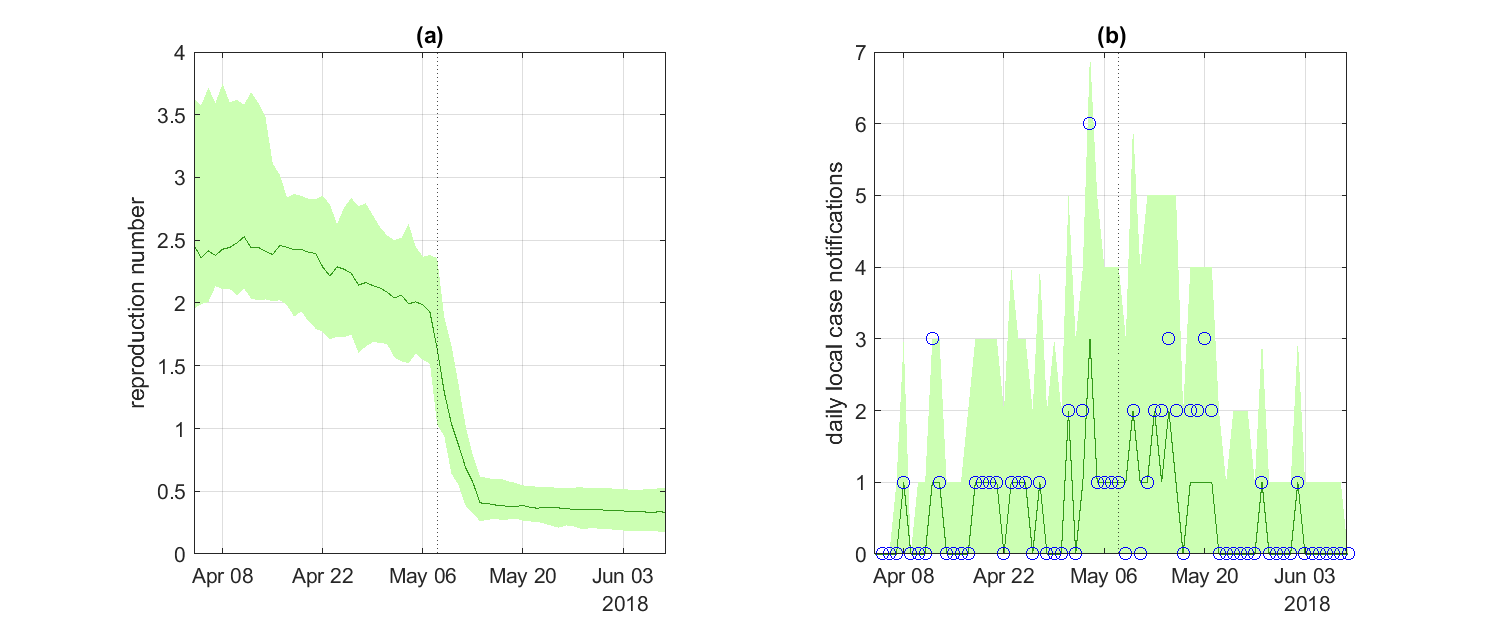
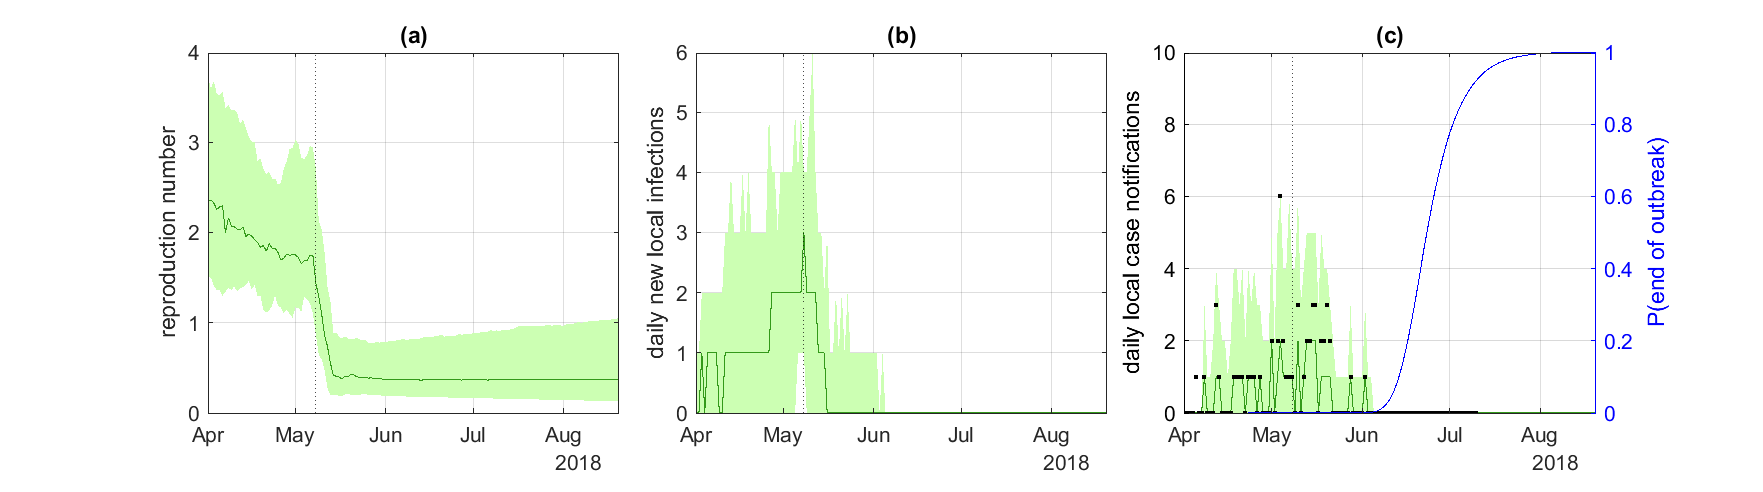
New figures

diff --git a/results/table.tex b/results/table.tex
@@ -2,14 +2,14 @@
 \hline
 \multicolumn{3}{l}{ \bf Covid-19} \\ 
  &  $t_n=7.7$ days & $t_n=11.2$ days \\ 
-$\alpha=0.4$ & 06-Jun-2020 & 04-Jun-2020 \\ 
- $\alpha=0.7$ & 03-Jun-2020 & 31-May-2020 \\ 
- $\alpha=1.0$ & 01-Jun-2020 & 28-May-2020 \\ 
+$\alpha=0.4$ & 01-Jun-2020 & 31-May-2020 \\ 
+ $\alpha=0.7$ & 30-May-2020 & 29-May-2020 \\ 
+ $\alpha=1.0$ & 28-May-2020 & 27-May-2020 \\ 
  \hline
 \multicolumn{3}{l}{ \bf Ebola} \\ 
  &  $t_n=6.2$ days & $t_n=11.2$ days \\ 
-$\alpha=0.8$ & 31-Jul-2018 & 24-Jul-2018 \\ 
- $\alpha=0.9$ & 27-Jul-2018 & 22-Jul-2018 \\ 
- $\alpha=1.0$ & 24-Jul-2018 & 21-Jul-2018 \\ 
+$\alpha=0.8$ & 14-Jul-2018 & 14-Jul-2018 \\ 
+ $\alpha=0.9$ & 14-Jul-2018 & 09-Jul-2018 \\ 
+ $\alpha=1.0$ & 12-Jul-2018 & 10-Jul-2018 \\ 
  \hline
 \end{tabular} 

diff --git a/code/makePlots.m b/code/makePlots.m
@@ -54,6 +54,8 @@ for iOutbreak = 1:nOutbreaks
     It_quantiles = results.It_quantiles{iRow};
     Zt_quantiles = results.Zt_quantiles{iRow};
     Ct_quantiles = results.Ct_quantiles{iRow};
+    RpreInt_mean = results.RpreInt_mean{iRow};
+    RpreInt_sd = results.RpreInt_sd{iRow};
     RpreInt_bins = results.RpreInt_bins{iRow};
     RpreInt_freq = results.RpreInt_freq{iRow};
     PUE = results.PUE_mean{iRow};
@@ -111,7 +113,7 @@ for iOutbreak = 1:nOutbreaks
     xlim([processed.t(1)-1, t(end) ]);
     ax = gca;
     ax.YAxis(1).Color = 'k';
-    ax.YAxis(2).Color = 'k';
+    ax.YAxis(2).Color = 'b';
     grid on
     title('(c)')
 
@@ -173,7 +175,7 @@ for iOutbreak = 1:nOutbreaks
 
 
 
-    
+
     scenarioKey = 7:9;
 
     h = figure(iFig);
